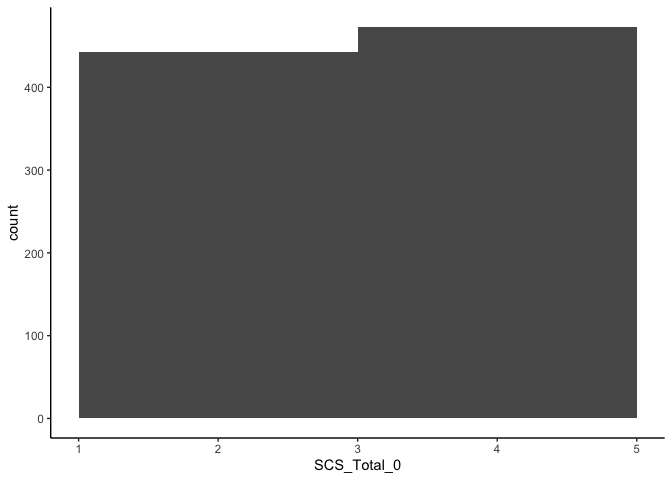
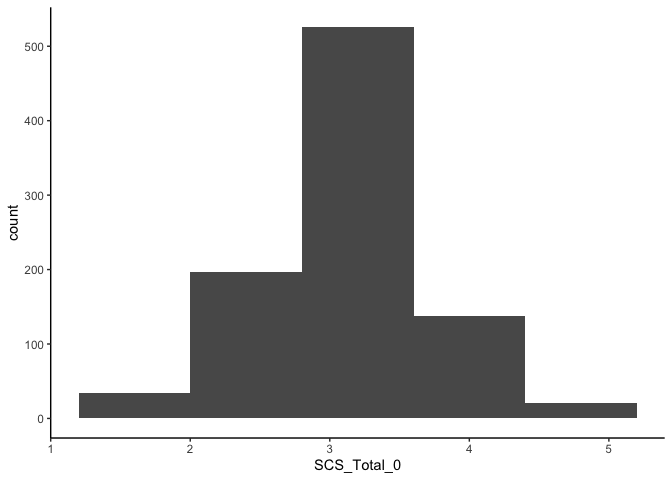
fixed stuff

diff --git a/code.md b/code.md
@@ -107,11 +107,6 @@ library(ggstatsplot)
 ``` r
 library(performance)
 library(sjPlot)
-```
-
-    ## Learn more about sjPlot with 'browseVignettes("sjPlot")'.
-
-``` r
 library(emmeans)
 ```
 
@@ -230,7 +225,7 @@ shapiro.test(list_dataset$SCAS_TOTAL_0)
 # Normality for Self-Compassion Scores
 
 ``` r
-ggplot(list_dataset, aes(x = SCS_Total_0)) + geom_histogram(binwidth = 2) + theme_classic()
+ggplot(list_dataset, aes(x = SCS_Total_0)) + geom_histogram(binwidth = .8) + theme_classic()
 ```
 
 ![](code_files/figure-gfm/unnamed-chunk-7-1.png)<!-- -->
